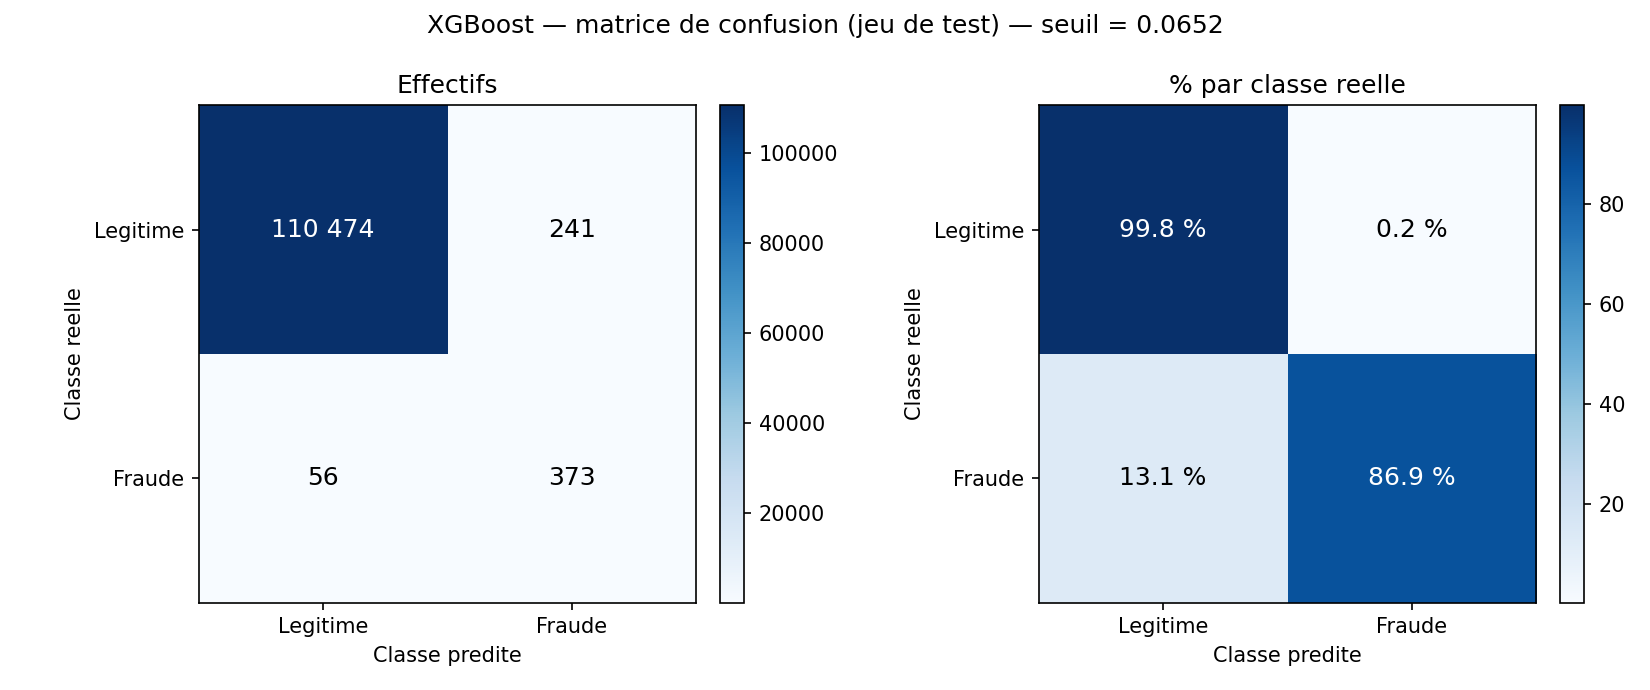
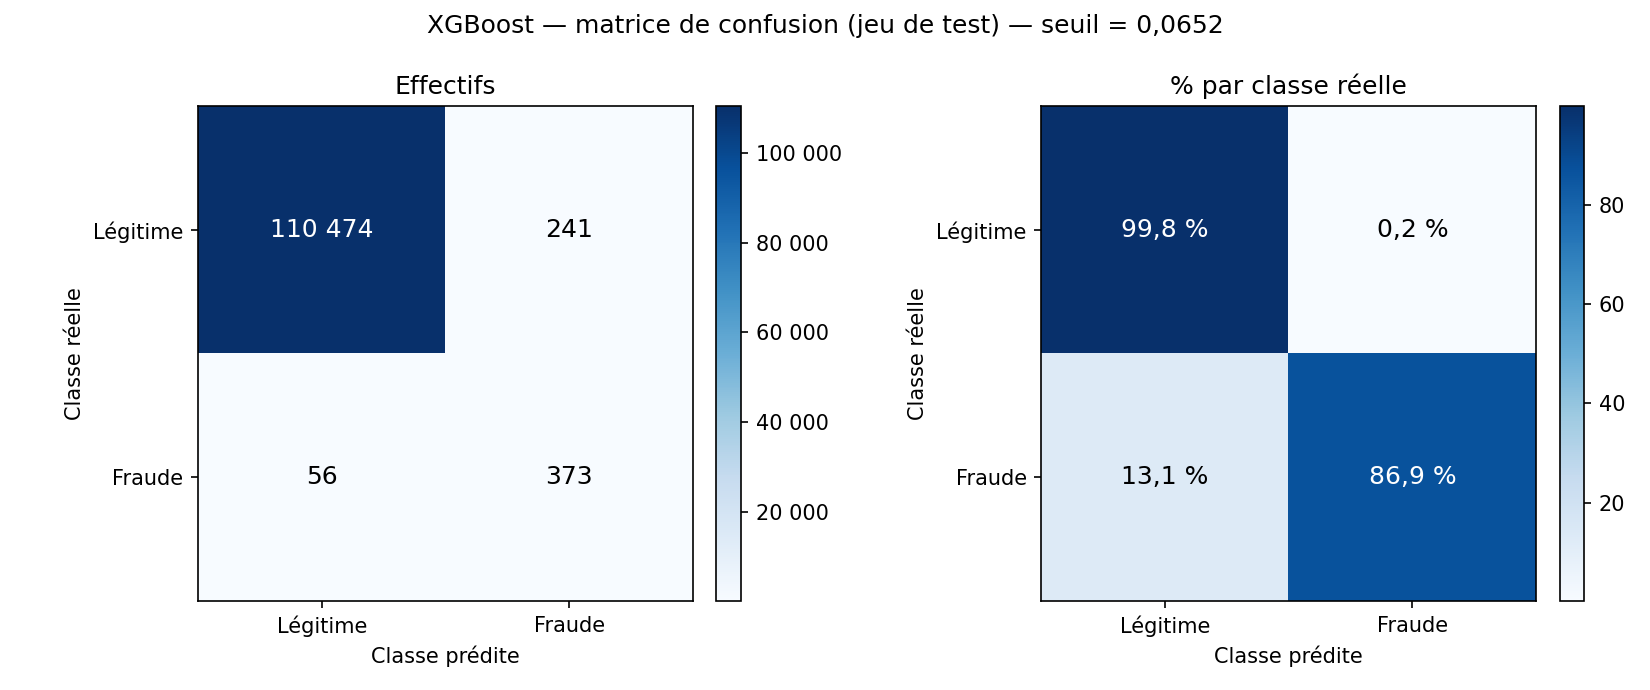
fix(ml): figures en français et graphique du choix du modèle sur la validation
- plot_confusion_matrix : accents (Légitime, Classe réelle, Classe prédite), virgule décimale,
  espaces des milliers, y compris sur l'échelle de couleurs.
- Matrices de confusion carte et mobile money régénérées avec cette fonction, à partir des effectifs
  de metriques.json (mêmes chiffres, aucun réentraînement).
- choix_modele_pr_auc_validation.png : PR-AUC de validation des trois algorithmes
  (comparaison_modeles.csv), le critère réel du choix ; la comparaison a été faite avec la variable genre.

Claude-Session: https://claude.ai/code/session_01HvohhCdzh6VYXUscgjgZqE

diff --git a/ml/src/evaluation.py b/ml/src/evaluation.py
@@ -107,30 +107,40 @@ def plot_confusion_matrix(y_true, y_proba, seuil: float, chemin_png: str,
     matplotlib.use("Agg")  # pas d'ecran necessaire (serveur, CI)
     import matplotlib.pyplot as plt
 
+    from matplotlib.ticker import FuncFormatter
+
     y_true = np.asarray(y_true).ravel()
     y_pred = (np.asarray(y_proba) >= seuil).astype(int)
     cm = confusion_matrix(y_true, y_pred, labels=[0, 1])
     cm_pct = cm / cm.sum(axis=1, keepdims=True) * 100
-    etiquettes = ["Legitime", "Fraude"]
+    etiquettes = ["Légitime", "Fraude"]
+
+    # Écriture française : espace pour les milliers, virgule décimale.
+    def effectif(v):
+        return f"{v:,.0f}".replace(",", "\u00a0")
+
+    def pourcentage(v):
+        return f"{v:.1f} %".replace(".", ",")
 
     fig, axes = plt.subplots(1, 2, figsize=(11, 4.6))
     for ax, donnees, fmt, sous_titre in (
-        (axes[0], cm, "{:,}", "Effectifs"),
-        (axes[1], cm_pct, "{:.1f} %", "% par classe reelle"),
+        (axes[0], cm, effectif, "Effectifs"),
+        (axes[1], cm_pct, pourcentage, "% par classe réelle"),
     ):
         im = ax.imshow(donnees, cmap="Blues")
         ax.set_xticks([0, 1], labels=etiquettes)
         ax.set_yticks([0, 1], labels=etiquettes)
-        ax.set_xlabel("Classe predite")
-        ax.set_ylabel("Classe reelle")
+        ax.set_xlabel("Classe prédite")
+        ax.set_ylabel("Classe réelle")
         ax.set_title(sous_titre)
         seuil_couleur = donnees.max() / 2
         for i in range(2):
             for j in range(2):
-                ax.text(j, i, fmt.format(donnees[i, j]).replace(",", " "), ha="center", va="center",
+                ax.text(j, i, fmt(donnees[i, j]), ha="center", va="center",
                         color="white" if donnees[i, j] > seuil_couleur else "black", fontsize=12)
-        fig.colorbar(im, ax=ax, fraction=0.046, pad=0.04)
-    fig.suptitle(f"{titre} — seuil = {seuil:.4f}")
+        barre = fig.colorbar(im, ax=ax, fraction=0.046, pad=0.04)
+        barre.ax.yaxis.set_major_formatter(FuncFormatter(lambda v, _: effectif(v)))
+    fig.suptitle(f"{titre} — seuil = {seuil:.4f}".replace(".", ","))
     fig.tight_layout()
     fig.savefig(chemin_png, dpi=150)
     plt.close(fig)
